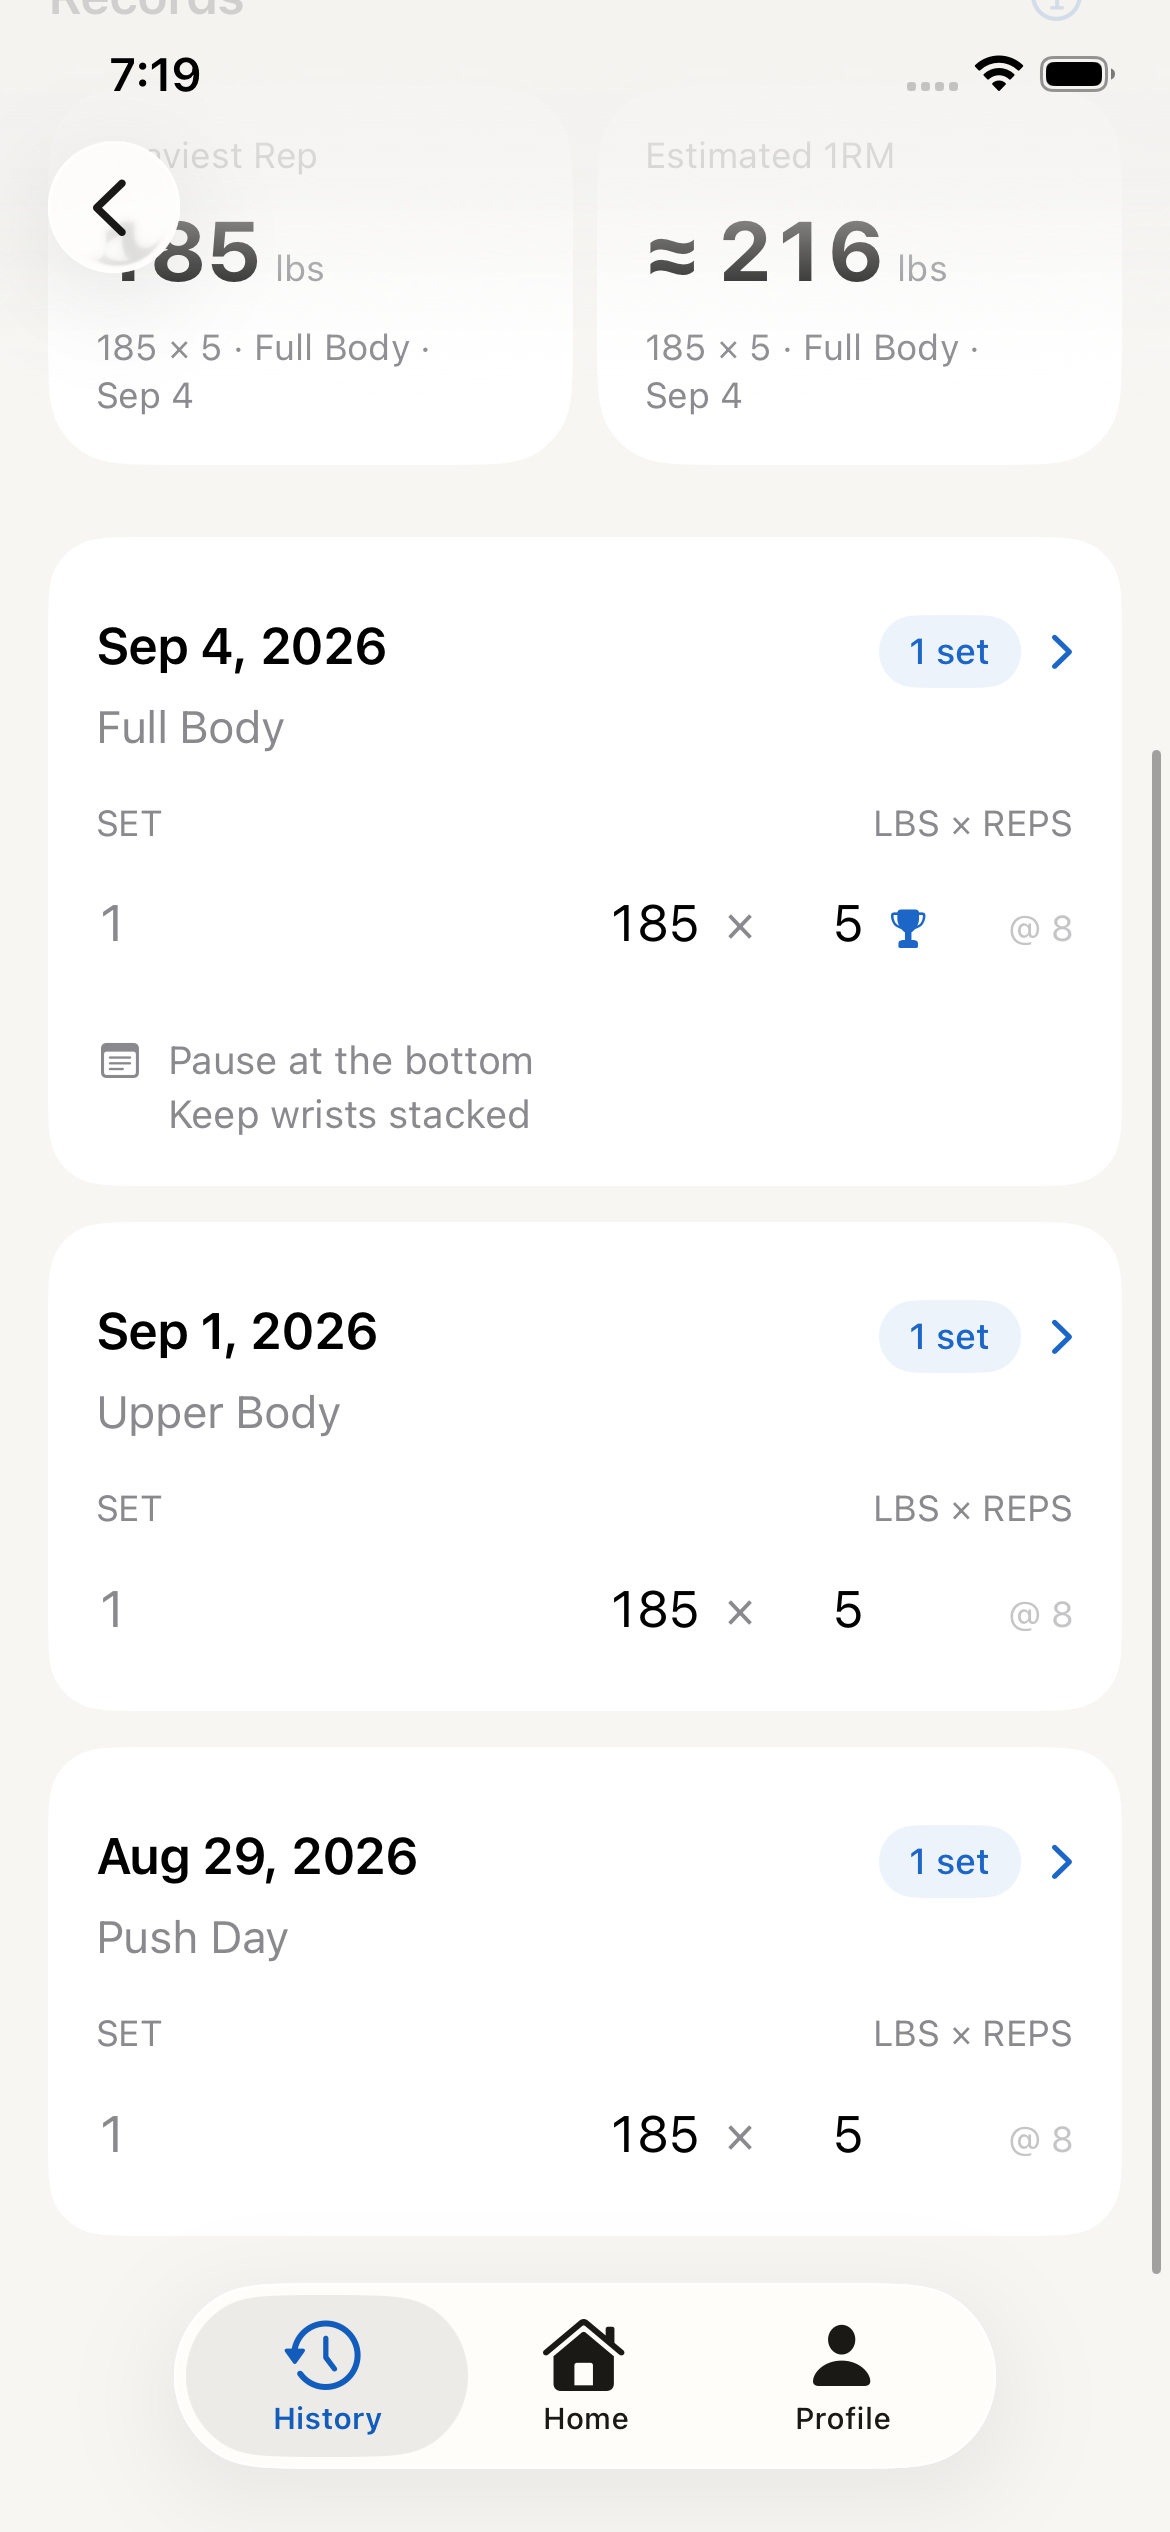
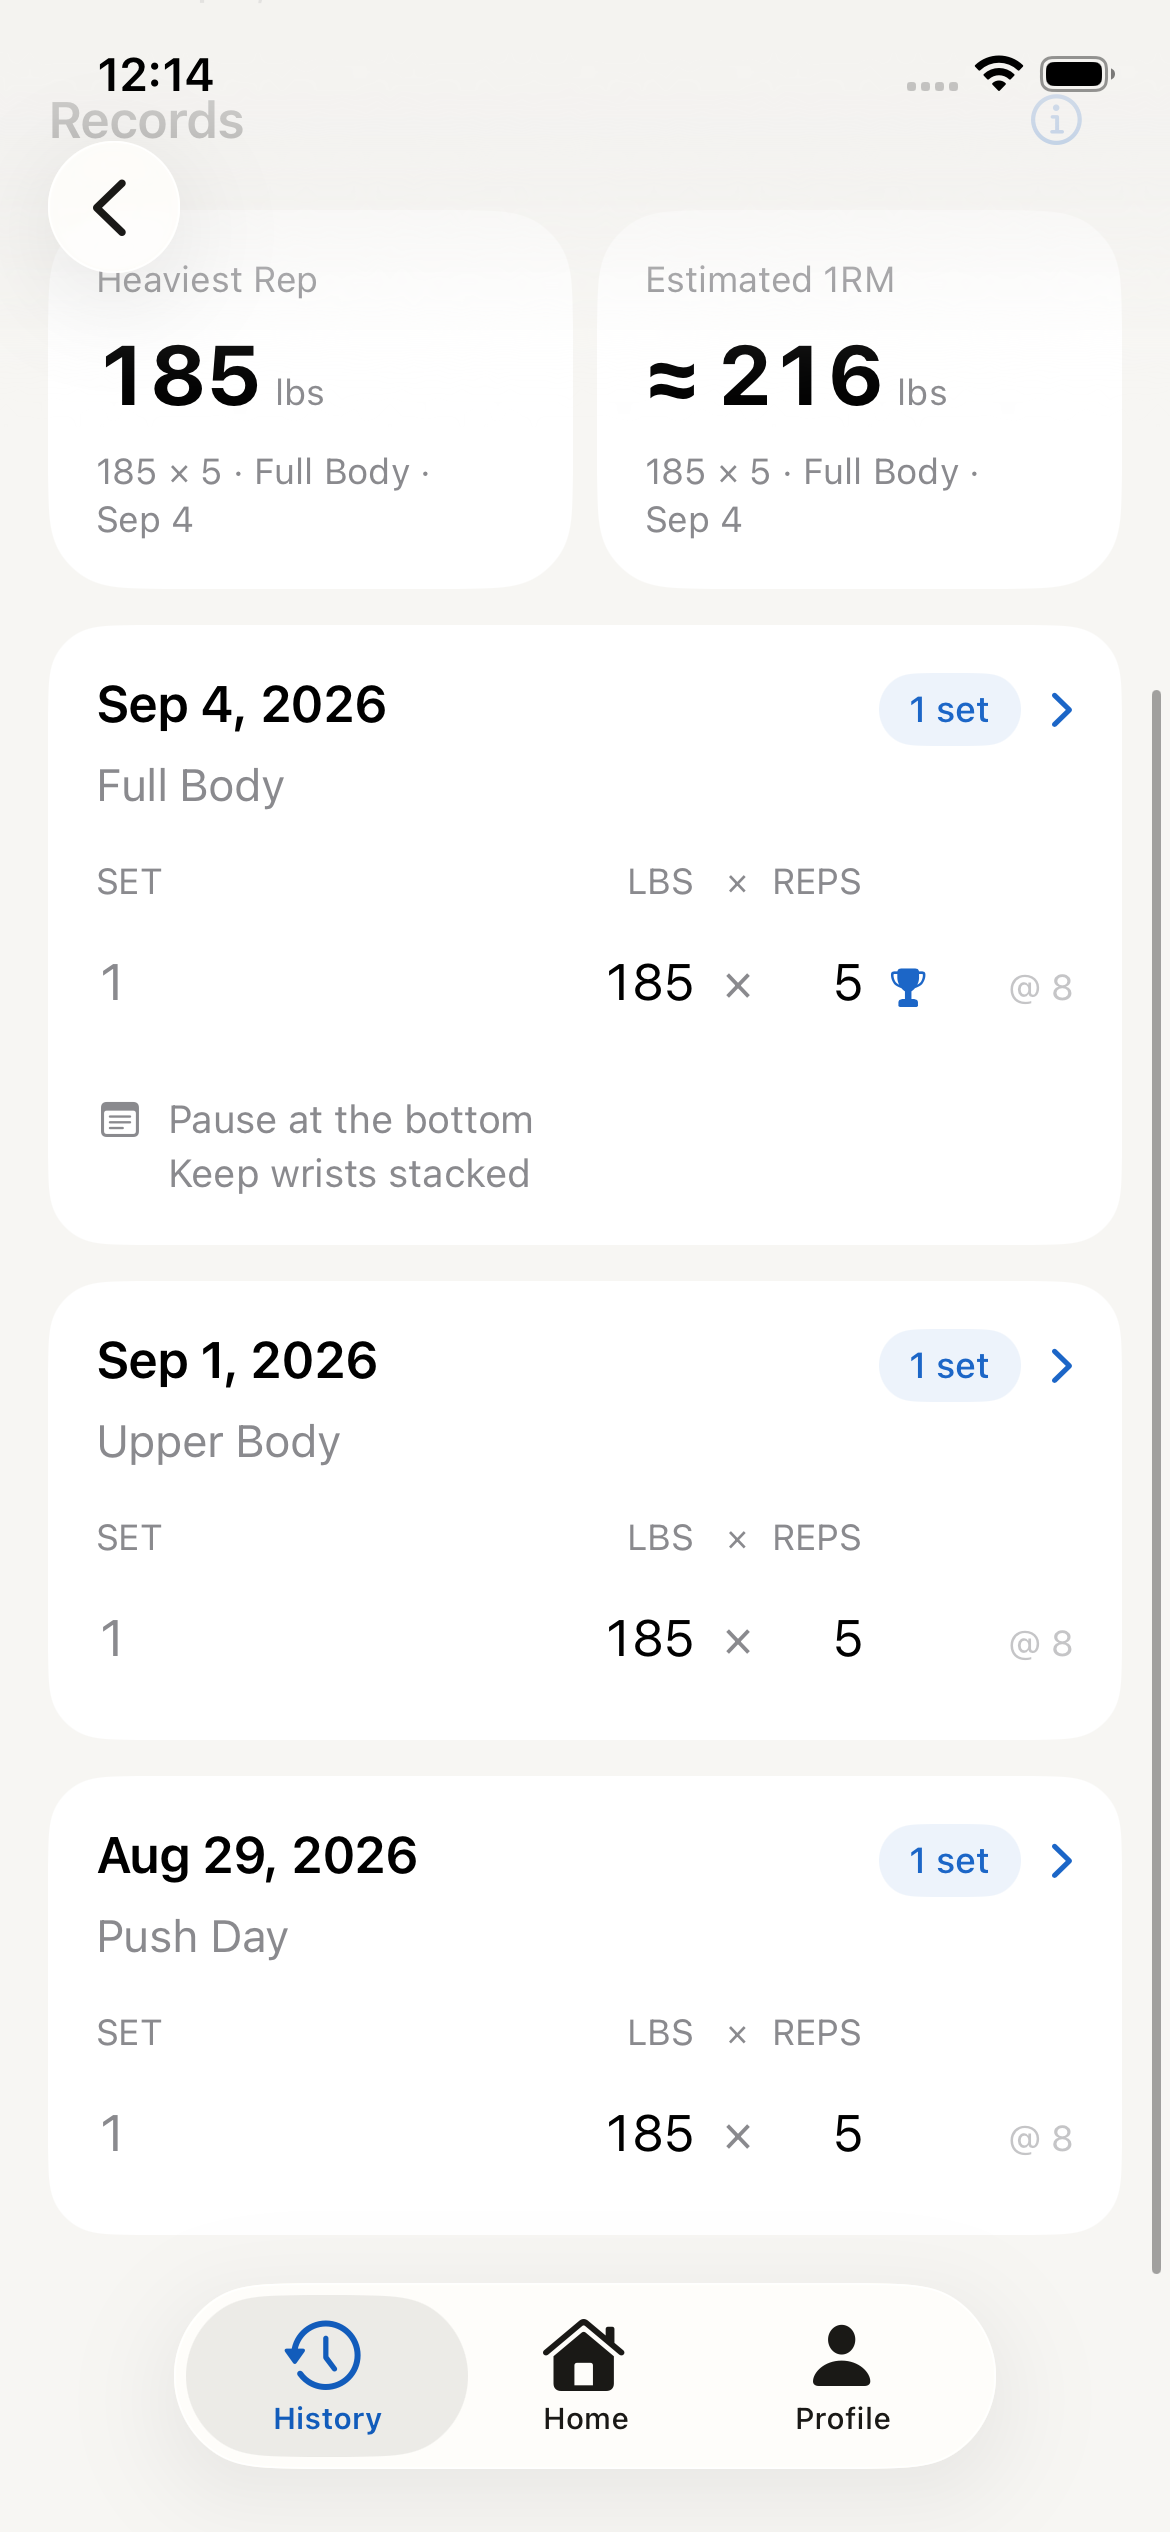
Align History column headers and tighten session spacing

diff --git a/Baros/Features/History/HistorySetTable.swift b/Baros/Features/History/HistorySetTable.swift
@@ -16,6 +16,7 @@ struct HistorySetTable: View {
 
     @ScaledMetric(relativeTo: .body) private var weightWidth = 64.0
     @ScaledMetric(relativeTo: .body) private var repsWidth = 28.0
+    @ScaledMetric(relativeTo: .body) private var separatorWidth = 12.0
 
     var body: some View {
         Grid(alignment: .trailing, horizontalSpacing: 16, verticalSpacing: 0) {
@@ -28,7 +29,10 @@ struct HistorySetTable: View {
             } else {
                 GridRow {
                     Text("SET").gridColumnAlignment(.leading)
-                    Text("\(weightUnit.fieldLabel) × REPS")
+                    HStack(alignment: .firstTextBaseline, spacing: 8) {
+                        valueColumns(weight: weightUnit.fieldLabel, reps: "REPS", showsRecord: false)
+                        if hasRPE { rpePlaceholder }
+                    }
                 }
                 .font(.caption)
                 .foregroundStyle(AppTheme.textSecondary)
@@ -82,28 +86,49 @@ struct HistorySetTable: View {
             ? AnyLayout(VStackLayout(alignment: .leading, spacing: 8))
             : AnyLayout(HStackLayout(alignment: .firstTextBaseline, spacing: 8))
         return layout {
-            HStack(alignment: .firstTextBaseline, spacing: 8) {
-                Text(weightText(row.set))
-                    .frame(width: dynamicTypeSize.isAccessibilitySize ? nil : weightWidth, alignment: .trailing)
-                Text("×").foregroundStyle(AppTheme.textSecondary).fixedSize()
-                Text(repsText(row.set))
-                    .frame(width: dynamicTypeSize.isAccessibilitySize ? nil : repsWidth, alignment: .trailing)
-                Image(systemName: "trophy.fill")
-                    .font(.caption)
-                    .foregroundStyle(AppTheme.brandAccentForeground)
-                    .opacity(row.recordKinds.isEmpty ? 0 : 1)
-                    .accessibilityHidden(true)
-            }
+            valueColumns(
+                weight: weightText(row.set),
+                reps: repsText(row.set),
+                showsRecord: !row.recordKinds.isEmpty
+            )
             .foregroundStyle(AppTheme.textPrimary)
             if let rpe = WorkoutNumericInputPolicy.validatedRPE(row.set.rpe) {
                 Text("@ \(WorkoutFormatters.number(rpe))")
                     .font(.caption.monospacedDigit())
                     .foregroundStyle(AppTheme.textTertiary)
                     .frame(width: dynamicTypeSize.isAccessibilitySize ? nil : 40, alignment: .trailing)
-            } else if !dynamicTypeSize.isAccessibilitySize && rows.contains(where: { WorkoutNumericInputPolicy.validatedRPE($0.set.rpe) != nil }) {
-                Color.clear.frame(width: 40, height: 1).accessibilityHidden(true)
+            } else if !dynamicTypeSize.isAccessibilitySize && hasRPE {
+                rpePlaceholder
             }
         }
+    }
+
+    // Header and data use the same columns, including space reserved for record/RPE annotations.
+    private func valueColumns(weight: String, reps: String, showsRecord: Bool) -> some View {
+        HStack(alignment: .firstTextBaseline, spacing: 8) {
+            Text(weight)
+                .fixedSize()
+                .frame(width: dynamicTypeSize.isAccessibilitySize ? nil : weightWidth, alignment: .trailing)
+            Text("×")
+                .foregroundStyle(AppTheme.textSecondary)
+                .frame(width: dynamicTypeSize.isAccessibilitySize ? nil : separatorWidth)
+            Text(reps)
+                .fixedSize()
+                .frame(width: dynamicTypeSize.isAccessibilitySize ? nil : repsWidth, alignment: .trailing)
+            Image(systemName: "trophy.fill")
+                .font(.caption)
+                .foregroundStyle(AppTheme.brandAccentForeground)
+                .opacity(showsRecord ? 1 : 0)
+                .accessibilityHidden(true)
+        }
+    }
+
+    private var hasRPE: Bool {
+        rows.contains { WorkoutNumericInputPolicy.validatedRPE($0.set.rpe) != nil }
+    }
+
+    private var rpePlaceholder: some View {
+        Color.clear.frame(width: 40, height: 1).accessibilityHidden(true)
     }
 
     private func weightText(_ set: LoggedSet) -> String {

diff --git a/BarosUITests/ExerciseHistoryRecordsUITests.swift b/BarosUITests/ExerciseHistoryRecordsUITests.swift
@@ -51,25 +51,30 @@ final class ExerciseHistoryRecordsUITests: XCTestCase {
     }
 
     func testExerciseHistoryDetailPresentsJournalSectionsAndCompleteSetAnnouncements() {
-        let app = openRecords()
+        for appearance in ["dark", "light"] {
+            let app = openRecords(extraArguments: ["-Baros.AppAppearance.preference", appearance])
 
-        XCTAssertTrue(app.staticTexts["Records"].exists)
-        XCTAssertTrue(app.buttons["AboutStrengthRecordsButton"].exists)
+            XCTAssertTrue(app.staticTexts["Records"].exists)
+            XCTAssertTrue(app.buttons["AboutStrengthRecordsButton"].exists)
 
-        let sourceWorkout = app.buttons.matching(
-            NSPredicate(format: "identifier BEGINSWITH %@", "ExercisePerformanceWorkoutButton-")
-        ).firstMatch
-        XCTAssertTrue(sourceWorkout.waitForExistence(timeout: 3))
-        XCTAssertTrue(sourceWorkout.label.contains("Upper Body"))
-        XCTAssertTrue(sourceWorkout.label.contains("3 sets"))
+            let sourceWorkout = app.buttons.matching(
+                NSPredicate(format: "identifier BEGINSWITH %@", "ExercisePerformanceWorkoutButton-")
+            ).firstMatch
+            XCTAssertTrue(sourceWorkout.waitForExistence(timeout: 3))
+            XCTAssertTrue(sourceWorkout.label.contains("Upper Body"))
+            XCTAssertTrue(sourceWorkout.label.contains("3 sets"))
+            XCTAssertGreaterThanOrEqual(sourceWorkout.frame.height, 44)
 
-        let values = app.descendants(matching: .any).matching(
-            NSPredicate(format: "identifier BEGINSWITH %@", "ExerciseHistorySetValue-")
-        )
-        XCTAssertEqual(values.count, 6)
-        let heaviest = values.matching(NSPredicate(format: "label CONTAINS %@", "Heaviest Rep")).firstMatch
-        XCTAssertEqual(heaviest.label, "Set 3, 225 pounds, 1 rep, Heaviest Rep")
-        XCTAssertTrue(app.staticTexts["3 sets"].exists)
+            let values = app.descendants(matching: .any).matching(
+                NSPredicate(format: "identifier BEGINSWITH %@", "ExerciseHistorySetValue-")
+            )
+            XCTAssertEqual(values.count, 6)
+            let heaviest = values.matching(NSPredicate(format: "label CONTAINS %@", "Heaviest Rep")).firstMatch
+            XCTAssertEqual(heaviest.label, "Set 3, 225 pounds, 1 rep, Heaviest Rep")
+            XCTAssertTrue(app.staticTexts["3 sets"].exists)
+            attachScreenshot(named: "exercise-no-rpe-\(appearance)", app: app)
+            app.terminate()
+        }
     }
 
     func testSparseHistoryAndDoubleBadgesWithLongWorkoutTitle() {

diff --git a/Baros/Features/History/ExerciseHistoryDetailView.swift b/Baros/Features/History/ExerciseHistoryDetailView.swift
@@ -27,7 +27,7 @@ struct ExerciseHistoryDetailView: View {
         let groups = sessionGroups
         let records = ExerciseHistoryRecords.make(from: groups, equipmentRaw: summary.equipmentRaw)
         ScrollView {
-            VStack(alignment: .leading, spacing: 24) {
+            VStack(alignment: .leading, spacing: 12) {
                 ExerciseHistoryHeading(
                     name: summary.name,
                     metadata: summary.metadataDisplayText,
@@ -35,6 +35,7 @@ struct ExerciseHistoryDetailView: View {
                     isCompact: false
                 )
                 .accessibilityIdentifier("ExerciseHistoryHeading")
+                .padding(.bottom, 12)
 
                 if let records {
                     ExerciseHistoryRecordsCard(

diff --git a/Baros/Features/History/ExerciseHistorySessionGroupCard.swift b/Baros/Features/History/ExerciseHistorySessionGroupCard.swift
@@ -93,7 +93,7 @@ struct ExerciseHistorySessionGroupCard: View {
                             .font(.footnote.weight(.semibold))
                             .foregroundStyle(AppTheme.brandAccentForeground)
                     }
-                    .frame(minHeight: 44)
+                    .frame(minHeight: 44, alignment: .top)
                     .contentShape(Rectangle())
                 }
                 .buttonStyle(.plain)

diff --git a/docs/evidence/pr-260-fable/README.md b/docs/evidence/pr-260-fable/README.md
@@ -1,7 +1,7 @@
 # History detail blocks and accent pills
 
-Captured September 18, 2026 from `Baros.xcodeproj`, scheme `Baros`, on the
-**iPhone 17e / iOS 26.4** simulator. All 16 images are unmodified screenshots
+Captured September 19, 2026 from `Baros.xcodeproj`, scheme `Baros`, on the
+**iPhone 17e / iOS 26.4** simulator. All 18 images are unmodified screenshots
 from targeted UI tests and were visually inspected.
 
 Exercise sections and session groups use flat `AppTheme.groupedSurface` blocks,
@@ -11,6 +11,13 @@ exercise names and dates remain primary text. The workout hero, stats and
 italic workout note remain unboxed. The pill is informational in Workout
 History and joins the chevron as the source-workout button in Exercise History
 and Quick History.
+
+The table header and values share weight, multiplication-sign, reps and
+annotation columns so the labels align with the numbers both with and without
+RPE. Session-header controls retain a 44pt touch target aligned at the top;
+centering that target no longer adds space above the date. The records-to-first-
+session gap is 12pt, matching the spacing between session blocks. Record tiles
+are unchanged.
 
 ## Fixtures and screenshots
 
@@ -24,6 +31,7 @@ uncompleted set to keep the presentation/eligibility distinction covered.
 | `workout-dark.png`, `workout-light.png` | Six-exercise fixture, unboxed hero and first blocks |
 | `workout-six-exercises-block-3-dark.png`, `workout-six-exercises-block-6-dark.png` | Further down the six-exercise workout, with and without notes |
 | `exercise-dark.png`, `exercise-light.png` | Three-session fixture, hero, existing record tiles and first blocks |
+| `exercise-no-rpe-dark.png`, `exercise-no-rpe-light.png` | Column alignment without RPE, including a record glyph and a 44pt source-workout target |
 | `exercise-three-sessions-dark.png`, `exercise-three-sessions-light.png` | All three session blocks visible together |
 | `workout-accessibility3.png`, `exercise-accessibility3.png` | Large-text headers |
 | `workout-accessibility3-table.png`, `exercise-accessibility3-table.png` | Scrolled large-text blocks and set announcements |
@@ -33,8 +41,12 @@ uncompleted set to keep the presentation/eligibility distinction covered.
 
 ## Validation
 
-12 targeted History UI tests passed in three sequential batches (2, 4 and 6),
-with parallel testing disabled. `git diff --check` passed.
+The alignment/spacing follow-up passed 6 targeted UI tests in two sequential
+batches of 3, with parallel testing disabled. These refresh all screenshots and
+cover standard/large text, dark/light, with/without RPE, mixed notes, source
+navigation, the 44pt source button target, and Quick History medium-detent fit.
+The preceding block-grouping change passed 12 targeted tests in three batches.
+`git diff --check` passed.
 
 The screenshot tests also check complete set announcements, an informational
 Workout History pill, three Exercise History source buttons, and source-workout
@@ -43,9 +55,11 @@ scroll test checks all six count pills and the three attached notes. The Quick
 History accessibility test uses `UICTContentSizeCategoryAccessibilityXL` so text
 size reaches the presented sheet, then scrolls to verify the note.
 
-No full-suite run or physical-device validation was performed. Two existing
-Quick History keyboard flows still report `Invalid frame dimension (negative
-or non-finite)` while passing. No production model, sync, completion-state or
+No full-suite run was performed. The follow-up built, installed and launched
+on Kevin's iPhone 17 / iOS 27.0; simulator screenshot inspection is separate
+from the user's on-device visual acceptance. The existing large-text Quick
+History keyboard flow still reports `Invalid frame dimension (negative or
+non-finite)` while passing. No production model, sync, completion-state or
 record-eligibility code changed.
 
 Result bundles are under
@@ -54,3 +68,11 @@ Result bundles are under
 - `test_sim_2026-09-19T00-18-07-173Z_pid95875_28a085b4.xcresult`: 2 passed; dark/light/accessibility detail layouts and medium-detent Quick History with source navigation.
 - `test_sim_2026-09-19T00-21-33-389Z_pid95875_371b01f3.xcresult`: 4 passed; six-block scroll, mixed notes, large-text Quick History, truncation footer and Full History route.
 - `test_sim_2026-09-19T00-23-44-223Z_pid95875_98598701.xcresult`: 6 passed; set announcements, record sources, Quick History record exclusion, exact source-workout navigation and matching-title/date identity.
+
+Alignment/spacing follow-up:
+
+- `test_sim_2026-09-19T17-13-21-250Z_pid41251_8402f07d.xcresult`: 3 passed; detail appearances/accessibility, medium-detent Quick History, and no-RPE tables with record indicators.
+- `test_sim_2026-09-19T17-16-53-590Z_pid41251_cd874af9.xcresult`: 3 passed; six-exercise scrolling, mixed notes and large-text Quick History.
+
+Device build/install/launch log:
+`~/Library/Developer/XcodeBuildMCP/workspaces/codex-ios-app-62beddaa6b92/logs/build_run_device_2026-09-19T17-18-33-100Z_pid41251_7a60922d.log`.
